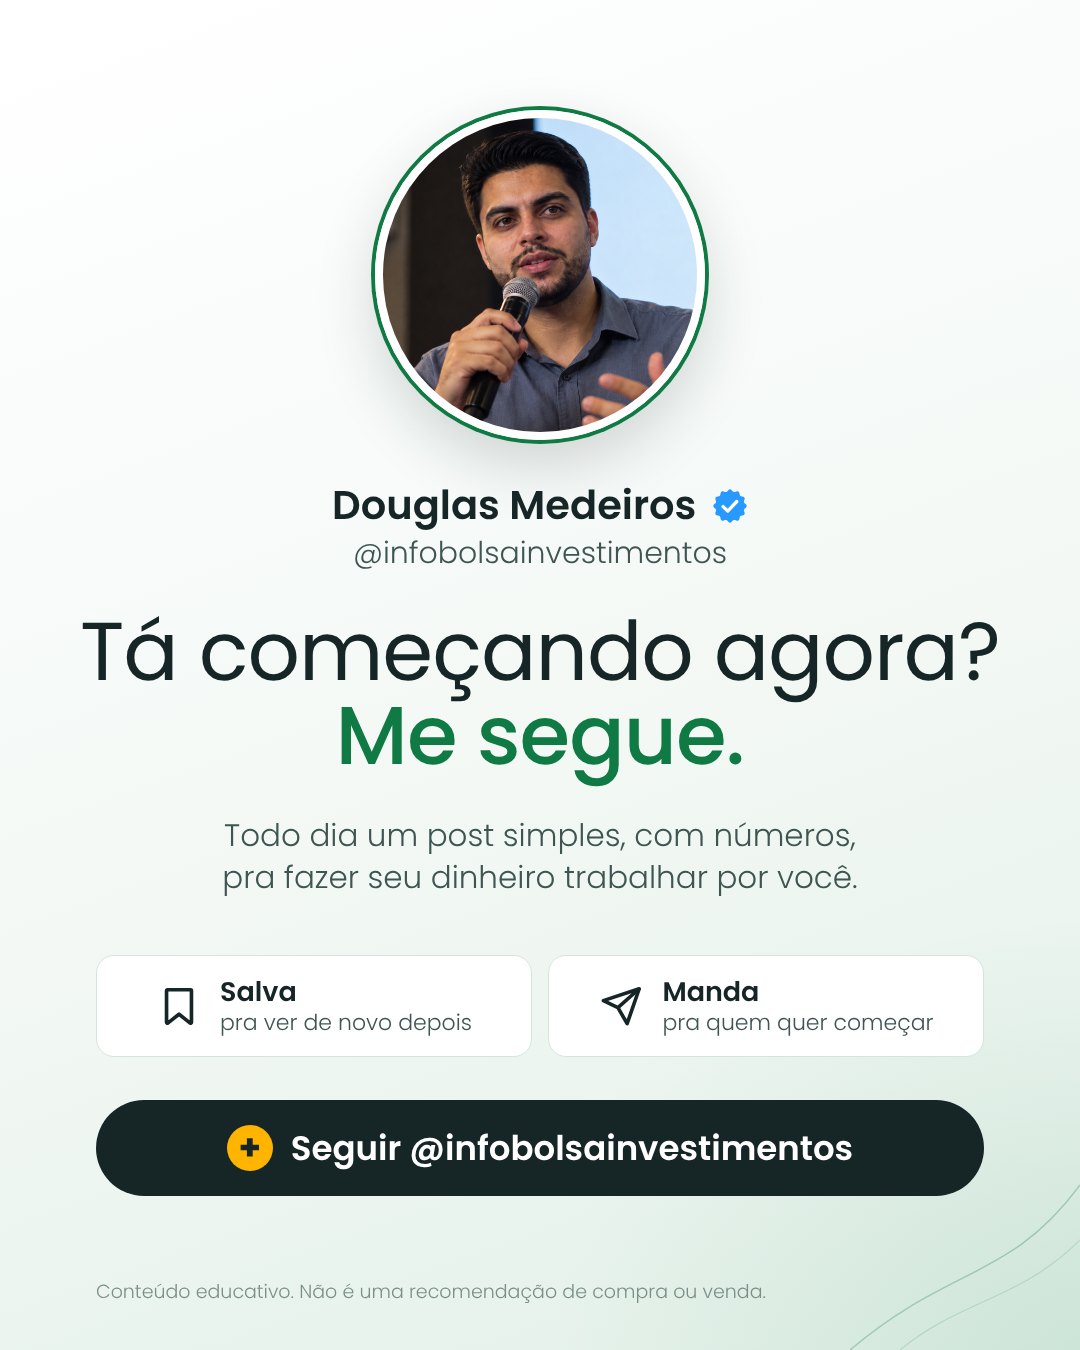
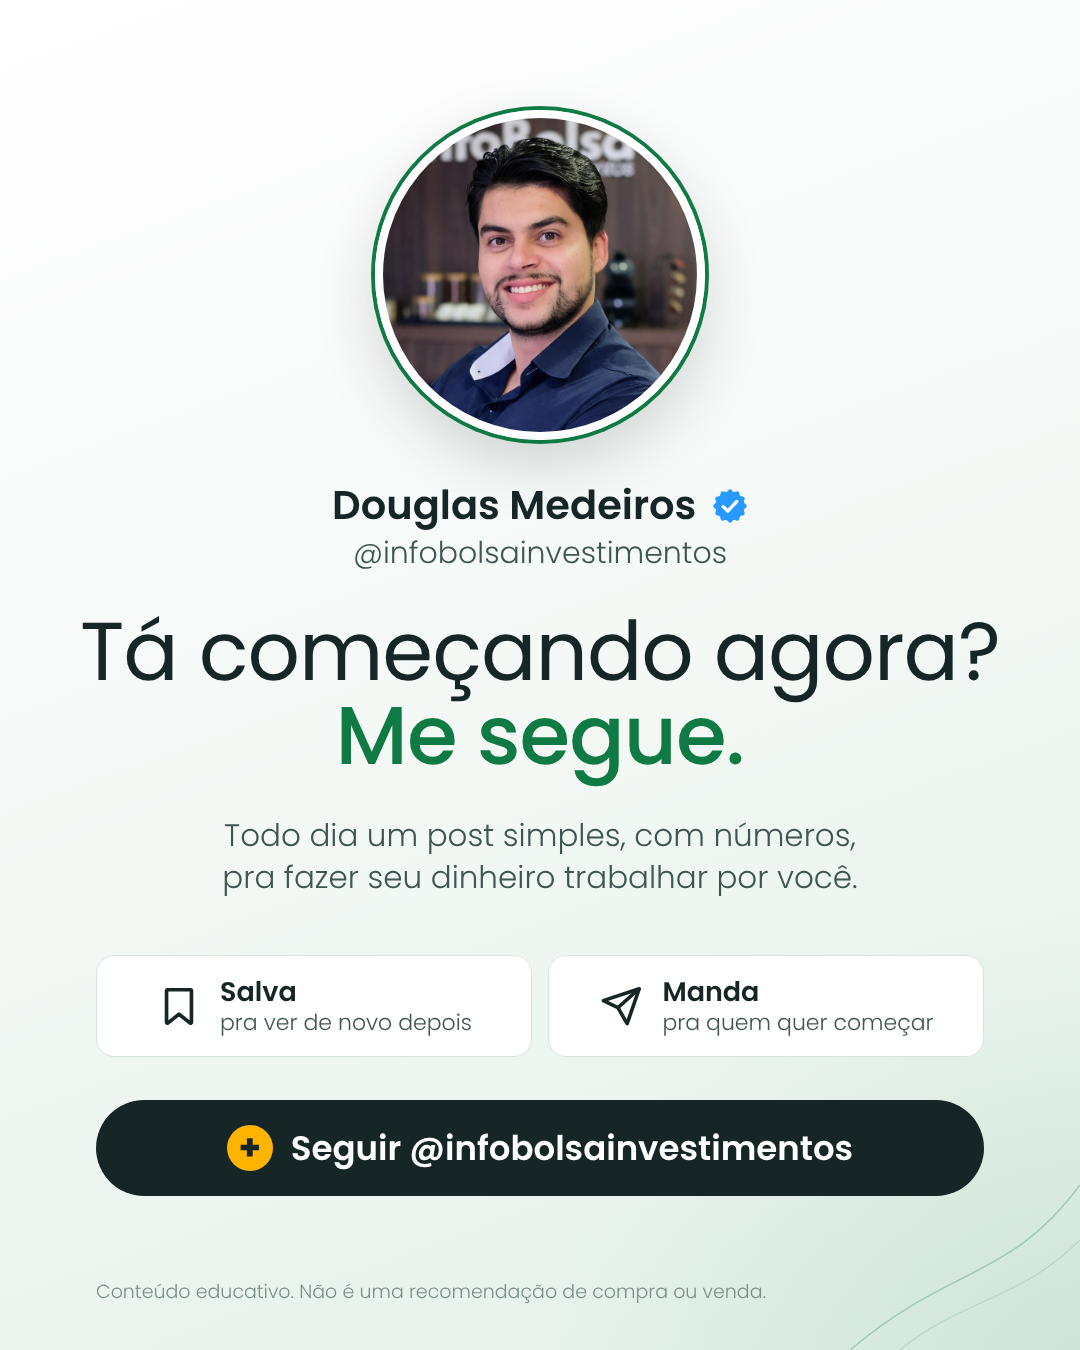
Slide de seguir do post 24/10 com a foto nova
Claude-Session: https://claude.ai/code/session_01V4Ut9U2W4uPbxLAyJQKmJH

Changed region(s): [[0.3361, 0.0622, 0.6722, 0.3422]]

diff --git a/kit/t2.html b/kit/t2.html
@@ -1,0 +1,134 @@
+<!doctype html><html lang="pt-BR"><head><meta charset="utf-8"><style>
+@font-face{font-family:"P";font-weight:300;src:url("fonts/node_modules/@fontsource/poppins/files/poppins-latin-300-normal.woff2")}
+@font-face{font-family:"P";font-weight:400;src:url("fonts/sistema/Poppins-Regular.ttf")}
+@font-face{font-family:"P";font-weight:500;src:url("fonts/node_modules/@fontsource/poppins/files/poppins-latin-500-normal.woff2")}
+@font-face{font-family:"P";font-weight:600;src:url("fonts/node_modules/@fontsource/poppins/files/poppins-latin-600-normal.woff2")}
+@font-face{font-family:"P";font-weight:700;src:url("fonts/sistema/Poppins-Bold.ttf")}
+*{margin:0;padding:0;box-sizing:border-box}
+html,body{width:1080px;height:1350px;overflow:hidden}
+body{position:relative;font-family:"P",sans-serif;font-weight:300;color:var(--fg);-webkit-font-smoothing:antialiased;background:var(--bg)}
+.luz{position:absolute;inset:0;background:radial-gradient(ellipse 760px 620px at 100% 100%,var(--luz),transparent 70%)}
+.curva{position:absolute;inset:0}
+.cab{position:absolute;top:70px;left:96px;display:flex;align-items:center;gap:18px}
+.cab .ft{width:88px;height:88px;border-radius:50%;overflow:hidden;border:2px solid var(--foto);flex:none}
+.cab .ft img{width:100%;height:100%;object-fit:cover}
+.cab .nm{font-weight:600;font-size:31px;line-height:36px;display:flex;align-items:center;gap:8px}
+.cab .nm svg{width:28px;height:28px}
+.cab .ar{font-size:24px;line-height:31px;color:var(--sub)}
+.tit{position:absolute;top:196px;left:96px;right:96px}
+.tit h1{font-weight:600;font-size:var(--tsize,92px);line-height:1.04;letter-spacing:-1.5px}
+.tit h1 span{color:var(--acc)}
+.tit p{font-size:30px;line-height:1.35;margin-top:16px;color:var(--sub)}
+.pasta{position:absolute;left:96px;width:888px}
+.psvg{position:absolute;inset:0}
+.aba{position:absolute;top:0;left:30px;height:56px;display:flex;align-items:center;gap:12px;font-weight:400;font-size:26px;letter-spacing:.5px}
+.aba em{font-style:normal;width:10px;height:10px;border-radius:50%;background:var(--dot,var(--acc))}
+.rod{position:absolute;left:96px;right:96px;bottom:44px;font-size:19px;line-height:1.5;color:var(--mute)}
+.num{font-variant-numeric:tabular-nums}
+/* tabela */
+.tb{position:absolute;top:70px;left:34px;right:34px}
+.tb .hd,.tb .ln{display:grid;grid-template-columns:var(--cols);align-items:center;column-gap:16px}
+.tb .hd{height:44px;font-size:19px;font-weight:500;letter-spacing:1.5px;text-transform:uppercase;color:var(--mute);border-bottom:1px solid var(--linha)}
+.tb .ln{height:var(--lh,62px);font-size:27px;border-bottom:1px solid var(--linha)}
+.tb .ln:last-child{border-bottom:none}
+.tb .r{text-align:right}
+.tb b{font-weight:600}
+.tb .ac{color:var(--acc);font-weight:600}
+.tk{display:flex;align-items:center;gap:14px;font-weight:500}
+.mono{width:42px;height:42px;border-radius:50%;background:var(--chip);border:1px solid var(--borda);display:flex;align-items:center;justify-content:center;font-size:13px;font-weight:600;color:var(--acc);letter-spacing:.3px}
+/* bloco do ativo */
+.ativo{position:absolute;left:96px;right:96px;display:flex;align-items:center;gap:28px}
+.ativo .lg{width:112px;height:112px;border-radius:50%;overflow:hidden;flex:none;display:flex;align-items:center;justify-content:center;border:1.5px solid var(--borda)}
+.ativo .lg img{width:100%;height:100%;object-fit:contain}
+.ativo .tic{font-weight:400;font-size:58px;line-height:1;letter-spacing:.5px}
+.ativo .tic small{display:block;font-size:20px;letter-spacing:3px;text-transform:uppercase;color:var(--mute);margin-bottom:8px}
+.chips{display:flex;gap:14px;margin-left:auto}
+.chip{background:var(--chip);border:1px solid var(--borda);border-radius:18px;padding:14px 20px;min-width:150px}
+.chip .r{font-size:17px;color:var(--mute);letter-spacing:.5px}
+.chip .v{font-size:27px;font-weight:500;margin-top:2px}
+/* comparativo */
+.vs .hd{height:150px;border-bottom:1px solid var(--linha)}
+.emp{display:flex;flex-direction:column;align-items:center;gap:10px;font-size:23px;font-weight:500}
+.emp .lg{width:86px;height:86px;border-radius:50%;overflow:hidden;display:flex;align-items:center;justify-content:center;border:1.5px solid var(--borda)}
+.emp .lg img{object-fit:contain}
+.vs .ln{height:var(--lh,92px)}
+.vs .lb{font-size:26px;font-weight:500;line-height:1.2}
+.vs .lb small{display:block;font-size:18px;font-weight:300;color:var(--mute)}
+.vs .vl{text-align:center;font-size:32px;font-weight:500}
+/* tabela generica */
+.tg .ln{font-size:28px}
+.tg .lb{font-weight:500;line-height:1.15}
+.tg .lb small{display:block;font-size:18px;font-weight:300;color:var(--mute);margin-top:2px}
+.tg .c{text-align:center}
+.tg .dst{font-weight:600;color:var(--acc)}
+.fim{position:absolute;left:96px;right:96px;font-size:28px;line-height:1.35;color:var(--sub)}
+.fim b{font-weight:600;color:var(--fg)}
+/* socio */
+.lgq{width:64px;height:64px;border-radius:16px;overflow:hidden;border:1.5px solid var(--borda);background:#fff;flex:none}
+.lgq img{width:100%;height:100%;object-fit:cover}
+.so .ln{font-size:28px}
+.so .nmx{display:flex;flex-direction:column;line-height:1.15}
+.so .nmx small{font-size:18px;color:var(--mute);font-weight:300}
+.total{position:absolute;left:34px;right:34px;display:flex;align-items:center;justify-content:space-between;border-radius:18px;background:var(--chip);border:1px solid var(--borda);padding:0 30px}
+.total .r1{font-size:24px;color:var(--sub);line-height:1.3}
+.total .r1 b{color:var(--fg);font-weight:600}
+.total .v{font-size:54px;font-weight:600;color:var(--acc)}
+/* segue */
+.it{display:flex;align-items:center;gap:22px;font-size:30px;line-height:1.25;font-weight:400}
+.it .n{width:48px;height:48px;border-radius:50%;background:var(--chip);border:1.5px solid var(--borda);display:flex;align-items:center;justify-content:center;font-size:22px;font-weight:600;color:var(--acc);flex:none}
+.it small{display:block;font-size:20px;color:var(--mute);font-weight:300}
+.btn{position:absolute;left:96px;right:96px;height:96px;border-radius:999px;background:var(--fg);color:#fff;display:flex;align-items:center;justify-content:center;gap:18px;font-size:34px;font-weight:600}
+.btn .m{width:46px;height:46px;border-radius:50%;background:var(--dot,var(--acc));color:var(--fg);display:flex;align-items:center;justify-content:center;font-size:36px;font-weight:700;line-height:1}
+.acoes{position:absolute;left:96px;right:96px;display:flex;gap:16px}
+.acoes div{flex:1;text-align:center;border:1px solid var(--borda);background:var(--card1);border-radius:18px;padding:16px 10px;font-size:22px;line-height:1.3;color:var(--sub)}
+.acoes b{display:block;font-size:26px;color:var(--fg);font-weight:600}
+/* colunas (estilo ficha por ativo) */
+.cl{position:absolute;top:64px;left:20px;right:20px;bottom:24px;display:flex}
+.cl .co{flex:1;display:flex;flex-direction:column;align-items:center;border-left:1.5px solid var(--linha);padding:0 8px}
+.cl .co:first-child{border-left:none}
+.cl .tk4{font-weight:700;font-size:34px;letter-spacing:.5px;margin-top:6px}
+.cl .lg4{width:150px;height:150px;border-radius:34px;overflow:hidden;margin:22px 0 30px;box-shadow:0 8px 20px rgba(22,37,38,.14)}
+.cl .lg4 img{width:100%;height:100%;object-fit:cover}
+.cl .rt{font-size:22px;color:var(--sub);margin-top:22px}
+.cl .vl4{width:100%;margin-top:6px;border-radius:14px;background:var(--chip);border:1px solid var(--borda);text-align:center;font-size:27px;font-weight:500;padding:15px 0;font-variant-numeric:tabular-nums}
+.cl .vl4.dst{color:var(--acc);font-weight:700;background:#e6f3ec}
+/* prefere */
+.pf-t{position:absolute;top:220px;left:60px;right:60px;text-align:center}
+.pf-t h1{font-weight:500;font-size:var(--tsize,96px);line-height:1.05;letter-spacing:-1.5px}
+.pf-t h1 span{color:var(--acc);font-weight:600}
+.pf-t p{font-size:30px;line-height:1.35;margin-top:18px;color:var(--sub)}
+.pf{position:absolute;left:0;right:0;display:flex;justify-content:center;gap:var(--gap,64px)}
+.op{width:var(--cw,370px);display:flex;flex-direction:column;align-items:center;background:linear-gradient(180deg,var(--card1),var(--card2));border:1.5px solid var(--borda);border-radius:32px;padding:34px 20px 30px;box-shadow:0 18px 40px rgba(22,37,38,.08)}
+.op .tk{font-weight:600;font-size:46px;letter-spacing:.5px;line-height:1}
+.op .nmo{font-size:20px;color:var(--mute);margin-top:6px;letter-spacing:.5px}
+.op .lgx{width:var(--lgw,210px);height:var(--lgw,210px);border-radius:36px;overflow:hidden;margin:26px 0 26px;box-shadow:0 10px 24px rgba(22,37,38,.15)}
+.op .lgx img{width:100%;height:100%;object-fit:cover;image-rendering:auto}
+.op .pr{background:var(--fg);color:#fff;border-radius:16px;padding:10px 26px;font-size:36px;font-weight:600}
+.op .ex{display:flex;gap:10px;margin-top:20px}
+.op .ex div{background:var(--chip);border:1px solid var(--borda);border-radius:14px;padding:8px 14px;text-align:center;font-size:24px;font-weight:500;min-width:120px}
+.op .ex small{display:block;font-size:15px;font-weight:400;color:var(--mute);letter-spacing:.5px}
+.xvs{position:absolute;width:84px;height:84px;border-radius:50%;background:var(--dot,var(--acc));color:#162526;display:flex;align-items:center;justify-content:center;font-size:32px;font-weight:700;box-shadow:0 8px 20px rgba(22,37,38,.18)}
+.pg{position:absolute;left:96px;right:96px;text-align:center;font-size:32px;line-height:1.35;color:var(--sub)}
+.pg b{color:var(--fg);font-weight:600}
+.sg{position:absolute;left:0;right:0;text-align:center}
+.sg-ft{top:110px;left:50%;width:330px;height:330px;margin-left:-165px;border-radius:50%;overflow:hidden;border:8px solid #fff;box-shadow:0 0 0 4px var(--acc),0 24px 60px rgba(22,37,38,.18)}
+.sg-ft img{width:100%;height:100%;object-fit:cover}
+.sg-nm{top:475px;font-size:40px;font-weight:600;color:var(--fg)}
+.sg-nm svg,.sg-nm img{width:36px;height:36px;vertical-align:-5px;margin-left:6px}
+.sg-ar{top:530px;font-size:30px;font-weight:300;color:var(--sub)}
+.sg-t{top:610px;font-size:82px;line-height:1.02;font-weight:400;color:var(--fg);letter-spacing:-1px}
+.sg-t span{color:var(--acc);font-weight:500}
+.sg-s{top:815px;font-size:31px;line-height:1.35;font-weight:300;color:var(--sub)}
+.sga{position:absolute;top:955px;left:96px;right:96px;display:flex;gap:16px}
+.sga>div{flex:1;display:flex;align-items:center;justify-content:center;gap:18px;border:1px solid var(--borda);background:var(--card1);border-radius:18px;padding:18px 10px;font-size:22px;line-height:1.3;color:var(--sub);text-align:left}
+.sga b{display:block;font-size:27px;color:var(--fg);font-weight:600}
+.sga .ic svg{width:46px;height:46px;display:block}</style></head>
+<body style="--bg:linear-gradient(160deg,#ffffff 0%,#f3f8f5 55%,#e2f0e8 100%);--luz:rgba(15,122,67,.10);--fg:#162526;--sub:#3f5552;--mute:#7b8f8a;--acc:#0f7a43;--dot:#FFB400;--card1:#ffffff;--card2:#f8fbf9;--borda:#d6e5dc;--linha:#e4eee8;--chip:#eef6f1;--curva:rgba(15,122,67,.28);--foto:#162526"><div class="luz"></div><svg class="curva" viewBox="0 0 1080 1350" width="1080" height="1350"><path d="M850 1350 C 950 1265, 1010 1280, 1080 1185" fill="none" stroke="rgba(15,122,67,.28)" stroke-width="1.5"/><path d="M900 1350 C 960 1300, 1020 1300, 1080 1240" fill="none" stroke="rgba(15,122,67,.28)" stroke-width="1.2" opacity=".55"/></svg>
+<div class="sg sg-ft"><img src="assets/foto.png" alt=""></div>
+<div class="sg sg-nm">Douglas Medeiros <svg viewBox="0 0 40 40" aria-hidden="true"><path id="selo" fill="#2799ff" d=""/><path fill="none" stroke="#fff" stroke-width="3.7" stroke-linecap="round" stroke-linejoin="round" d="M12.4 20.7l5.1 4.9 10-10.6"/></svg></div>
+<div class="sg sg-ar">@infobolsainvestimentos</div>
+<div class="sg sg-t">Tá começando agora?<br><span>Me segue.</span></div>
+<div class="sg sg-s">Todo dia um post simples, com números,<br>pra fazer seu dinheiro trabalhar por você.</div>
+<div class="sga"><div><span class="ic"><svg viewBox="0 0 24 24" fill="none" stroke="#162526" stroke-width="1.9" stroke-linejoin="round"><path d="M6 3.5h12a.5.5 0 0 1 .5.5v16.6a.4.4 0 0 1-.65.3L12 16.3l-5.85 4.6a.4.4 0 0 1-.65-.3V4a.5.5 0 0 1 .5-.5z"/></svg></span><span><b>Salva</b>pra ver de novo depois</span></div><div><span class="ic"><svg viewBox="0 0 24 24" fill="none" stroke="#162526" stroke-width="1.9" stroke-linejoin="round"><path d="M21.5 3 2.8 9.2l7.6 3.6L21.5 3z"/><path d="M21.5 3 15.2 21.2l-4.8-8.4"/></svg></span><span><b>Manda</b>pra quem quer começar</span></div></div>
+<div class="btn" style="top:1100px"><span class="m">+</span>Seguir @infobolsainvestimentos</div>
+<div class="rod">Conteúdo educativo. Não é uma recomendação de compra ou venda.</div><script>(function(){var p=[],N=360;for(var i=0;i<N;i++){var t=2*Math.PI*i/N,r=17.3+1.25*Math.cos(12*t);p.push((20+r*Math.sin(t)).toFixed(2)+' '+(20-r*Math.cos(t)).toFixed(2));}document.getElementById('selo').setAttribute('d','M'+p.join(' L')+'Z');})();</script></body></html>
